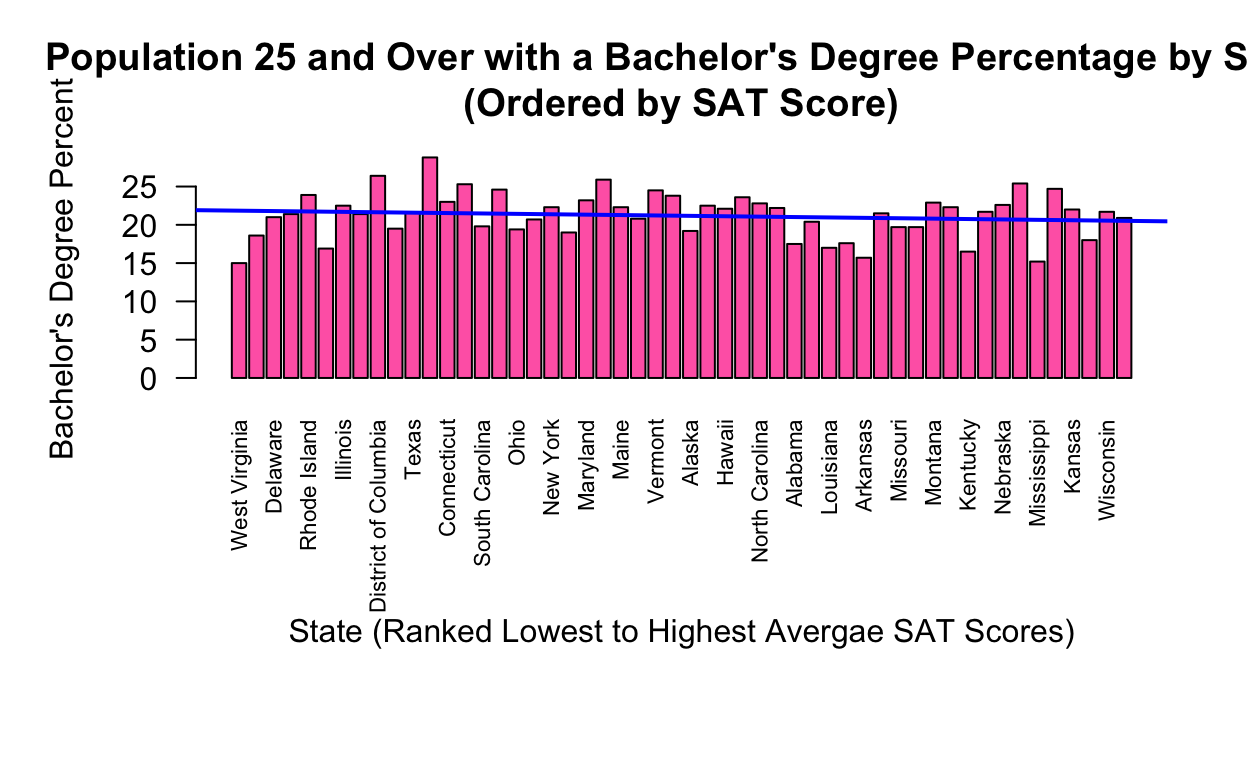
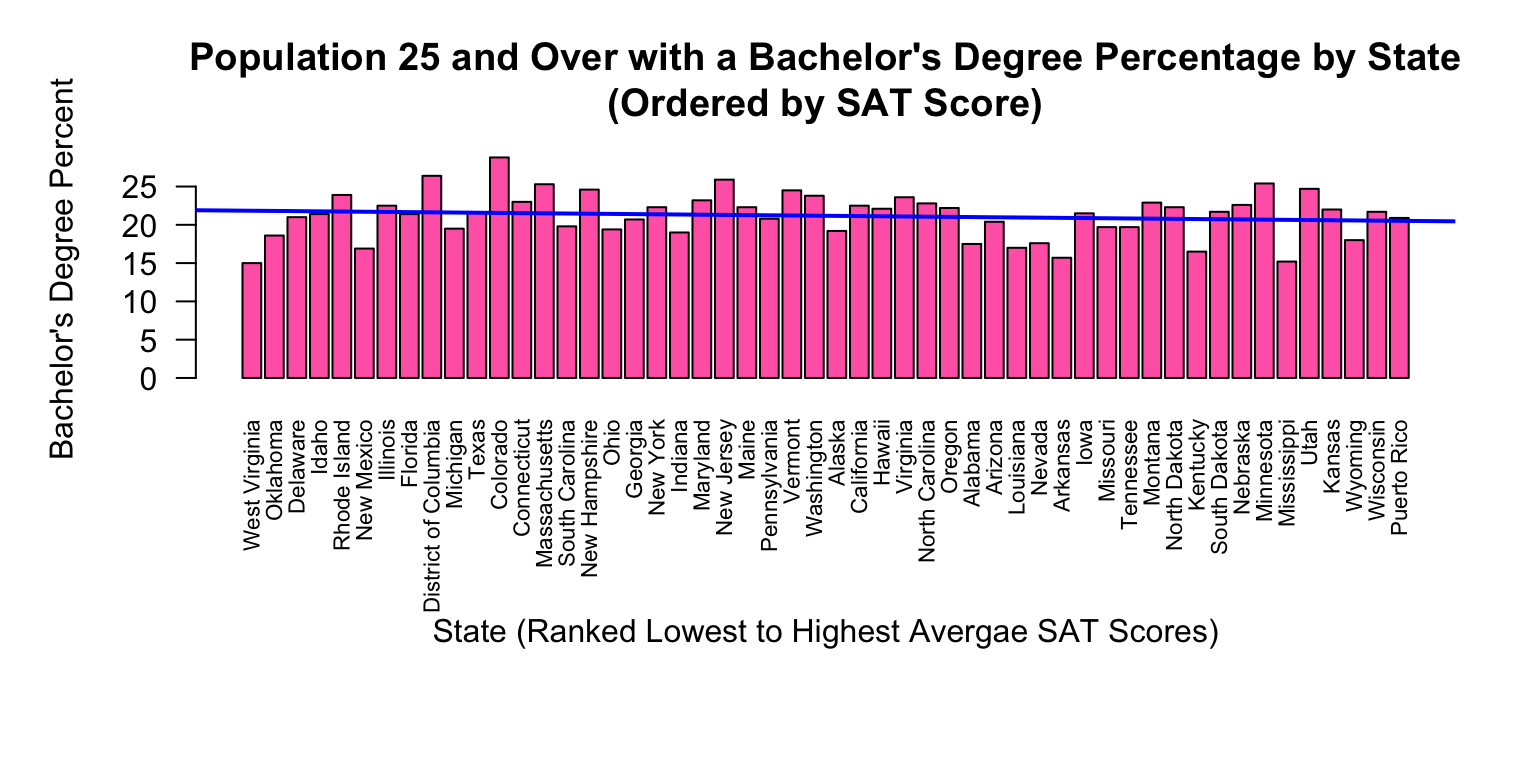
correct knit presentation

Changed region(s): [[0.0312, 0.0312, 1.0, 0.5938], [0.1562, 0.5312, 0.9375, 0.8438]]

diff --git a/index.html b/index.html
@@ -1599,7 +1599,7 @@ code span.wa { color: #5e5e5e; font-style: italic; } /* Warning */
         cat(&quot;Loading objects:\n&quot;)
     .Internal(loadFromConn2(con, envir, verbose))
 }
-&lt;bytecode: 0x7faa5fda4ae8&gt;
+&lt;bytecode: 0x7fb416a1f560&gt;
 &lt;environment: namespace:base&gt;</code></pre>
 </div>
 <div class="layout-chunk" data-layout="l-body">
@@ -1634,10 +1634,9 @@ code span.wa { color: #5e5e5e; font-style: italic; } /* Warning */
 <span><span class='fu'><a href='https://rdrr.io/r/graphics/mtext.html'>mtext</a></span><span class='op'>(</span><span class='st'>"State (Ranked Lowest to Highest Avergae SAT Scores)"</span>, side <span class='op'>=</span> <span class='fl'>1</span>, line <span class='op'>=</span> <span class='fl'>6</span><span class='op'>)</span></span>
 <span></span>
 <span><span class='va'>fit</span> <span class='op'>&lt;-</span> <span class='fu'><a href='https://rdrr.io/r/stats/lm.html'>lm</a></span><span class='op'>(</span><span class='va'>DegreePercent</span> <span class='op'>~</span> <span class='fu'><a href='https://rdrr.io/r/base/numeric.html'>as.numeric</a></span><span class='op'>(</span><span class='va'>state</span><span class='op'>)</span>, data <span class='op'>=</span> <span class='va'>merged_data</span><span class='op'>)</span></span>
-<span></span>
 <span><span class='fu'><a href='https://rdrr.io/r/graphics/abline.html'>abline</a></span><span class='op'>(</span><span class='va'>fit</span>, col <span class='op'>=</span> <span class='st'>"blue"</span>, lwd <span class='op'>=</span> <span class='fl'>2</span><span class='op'>)</span></span></code></pre>
 </div>
-<p><img src="index_files/figure-html5/unnamed-chunk-5-1.png" width="624" /></p>
+<p><img src="index_files/figure-html5/unnamed-chunk-5-1.png" width="768" /></p>
 </div>
 <div class="sourceCode" id="cb3"><pre class="sourceCode r distill-force-highlighting-css"><code class="sourceCode r"></code></pre></div>
 <!--radix_placeholder_article_footer-->
